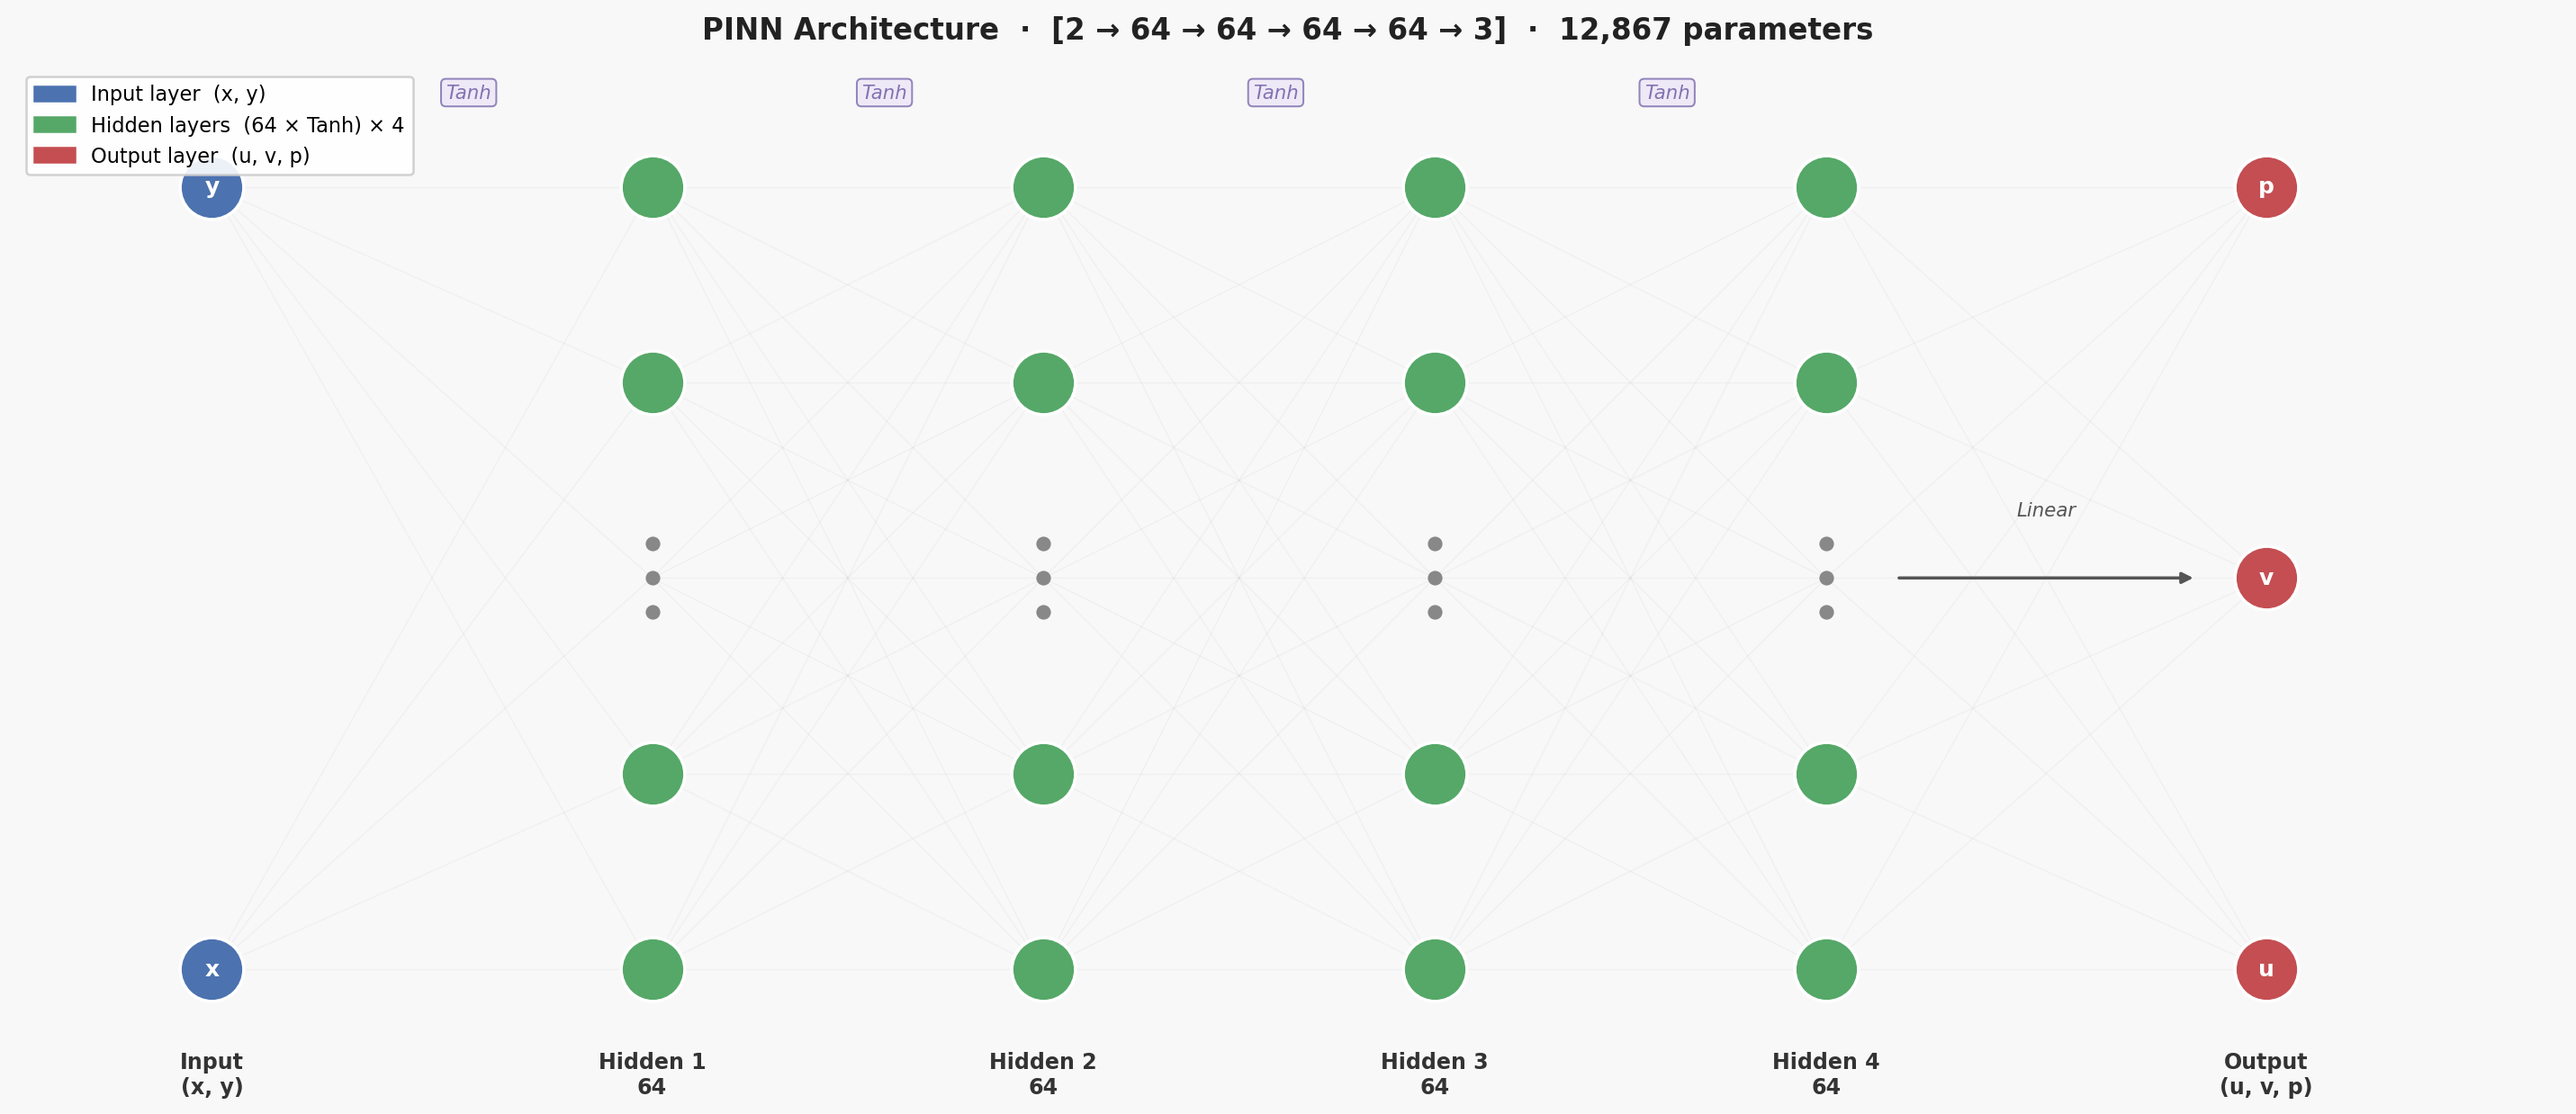
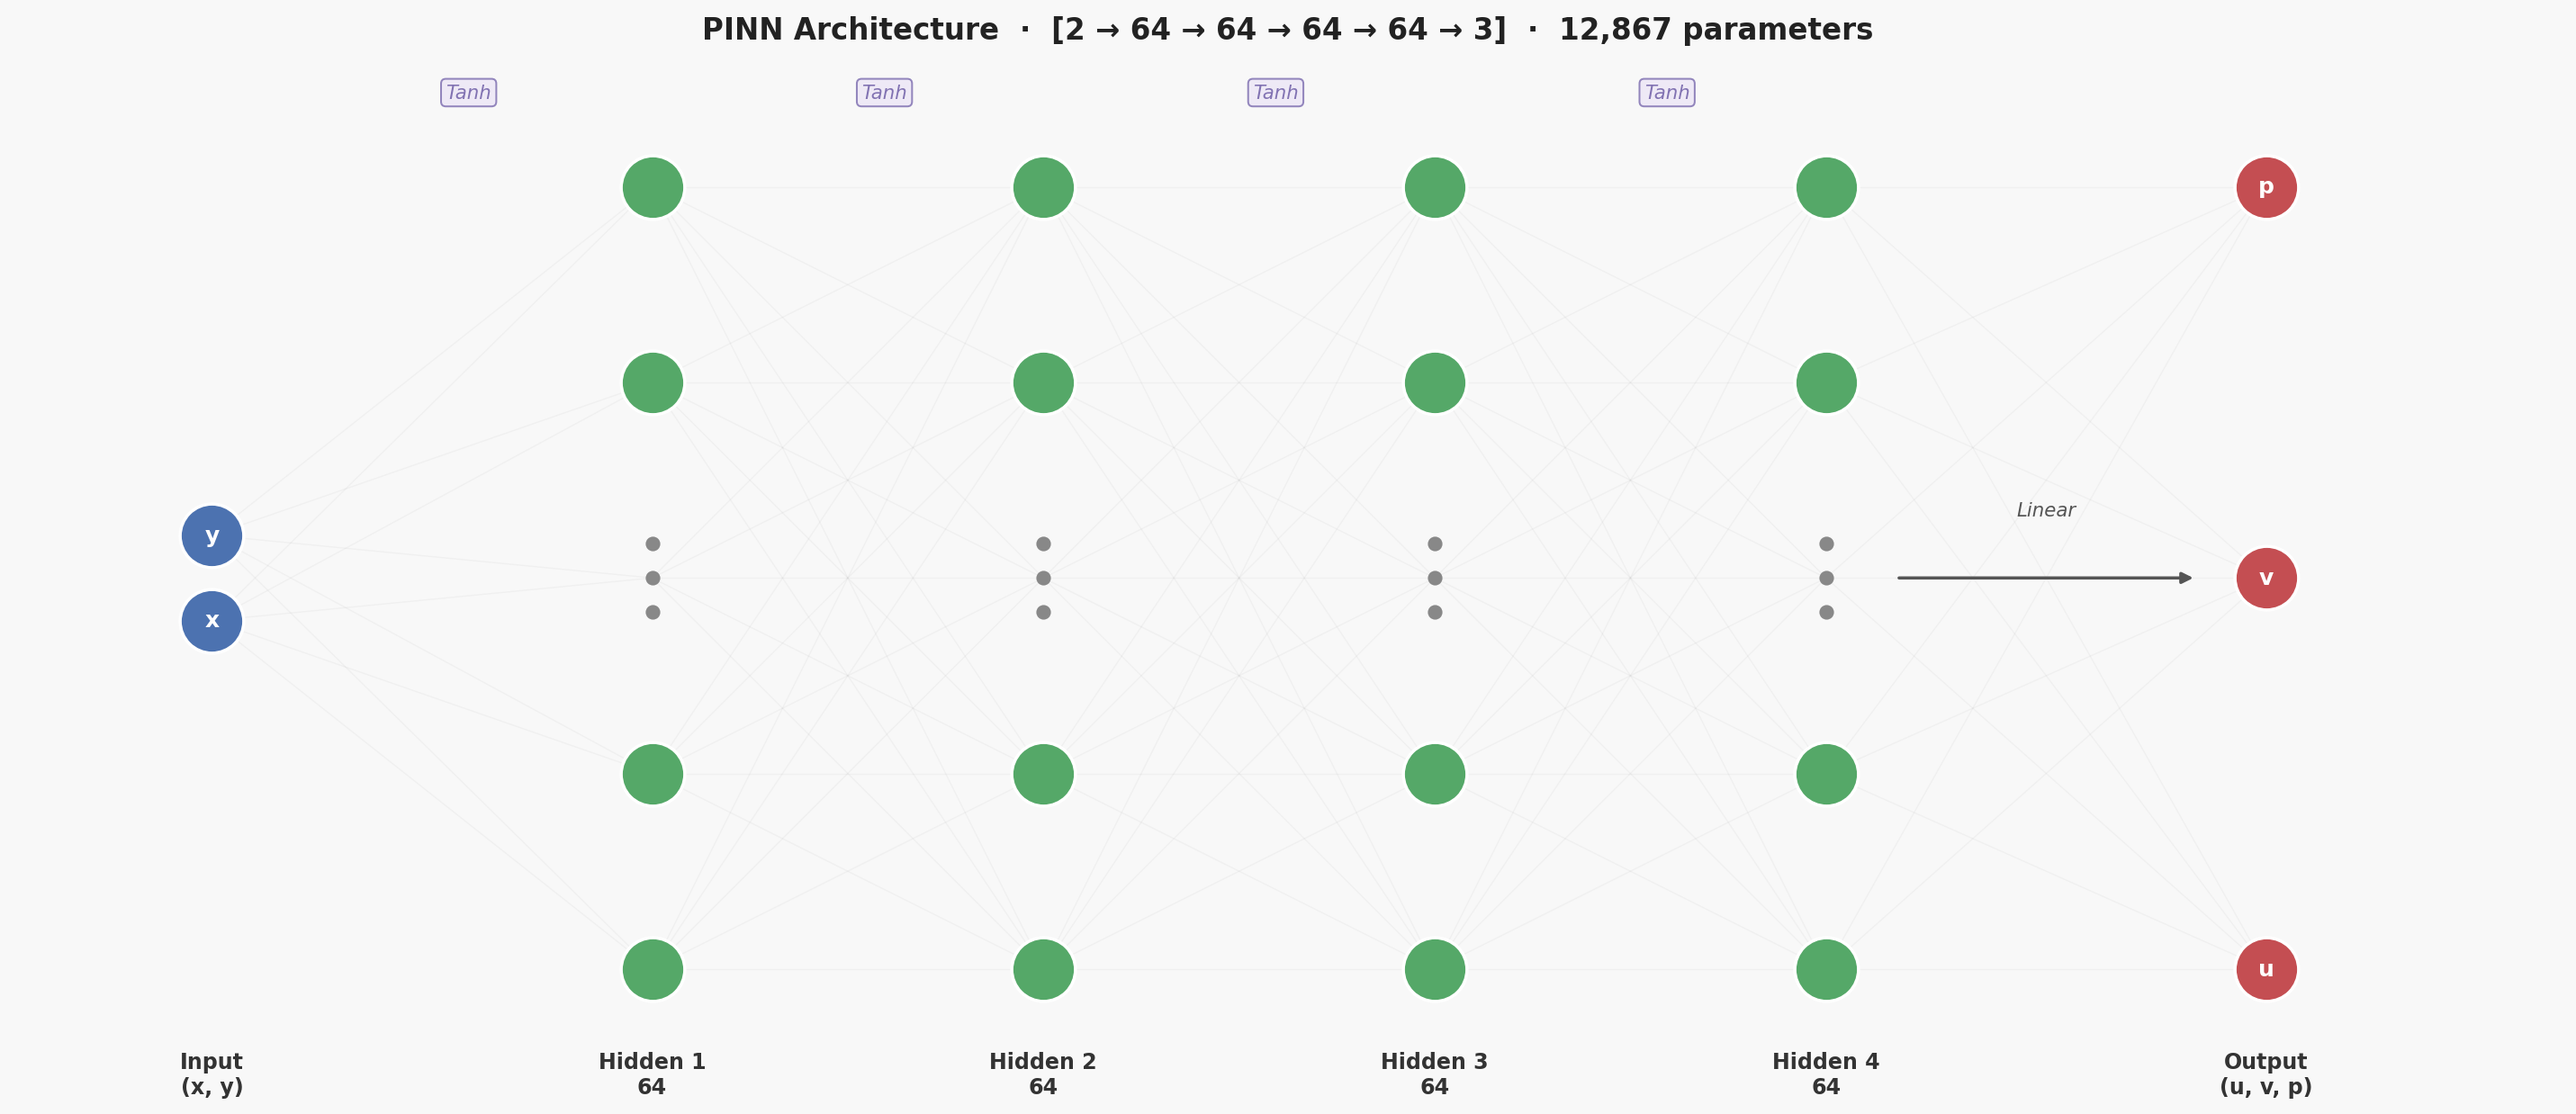
Redesign NN diagram: remove legend, centre input neurons

Changed region(s): [[0.0, 0.0614, 0.1555, 0.2149], [0.0622, 0.4604, 0.0933, 0.5832], [0.0622, 0.8288, 0.0933, 0.8901]]

diff --git a/make_arch_diagram.py b/make_arch_diagram.py
@@ -1,8 +1,6 @@
 """Generate a neural network architecture diagram for the PINN and save to images/."""
 import numpy as np
 import matplotlib.pyplot as plt
-import matplotlib.patches as mpatches
-from matplotlib.patches import FancyArrowPatch
 
 # ── Layout constants ───────────────────────────────────────────────────────────
 LAYER_X = [0.0, 1.8, 3.4, 5.0, 6.6, 8.4]          # x position of each layer
@@ -63,10 +61,12 @@ def main():
     fig.patch.set_facecolor("#F8F8F8")
 
     # ── Pre-compute visible neuron positions ──────────────────────────────────
+    mid = FIG_H / 2
     all_ys = []
     for li, lx in enumerate(LAYER_X):
         if li == 0:
-            ys = neuron_ys(2)
+            gap = 0.55  # x and y neurons close together, centred
+            ys = np.array([mid - gap / 2, mid + gap / 2])
         elif li == len(LAYER_X) - 1:
             ys = neuron_ys(3)
         else:
@@ -119,15 +119,6 @@ def main():
         "PINN Architecture  ·  [2 → 64 → 64 → 64 → 64 → 3]  ·  12,867 parameters",
         fontsize=13, fontweight="bold", pad=12, color="#222222"
     )
-
-    # ── Legend ────────────────────────────────────────────────────────────────
-    legend_patches = [
-        mpatches.Patch(color=COLORS["input"],  label="Input layer  (x, y)"),
-        mpatches.Patch(color=COLORS["hidden"], label="Hidden layers  (64 × Tanh) × 4"),
-        mpatches.Patch(color=COLORS["output"], label="Output layer  (u, v, p)"),
-    ]
-    ax.legend(handles=legend_patches, loc="upper left", fontsize=9,
-              framealpha=0.9, edgecolor="#CCCCCC")
 
     plt.tight_layout()
     out = "images/network_architecture.png"
